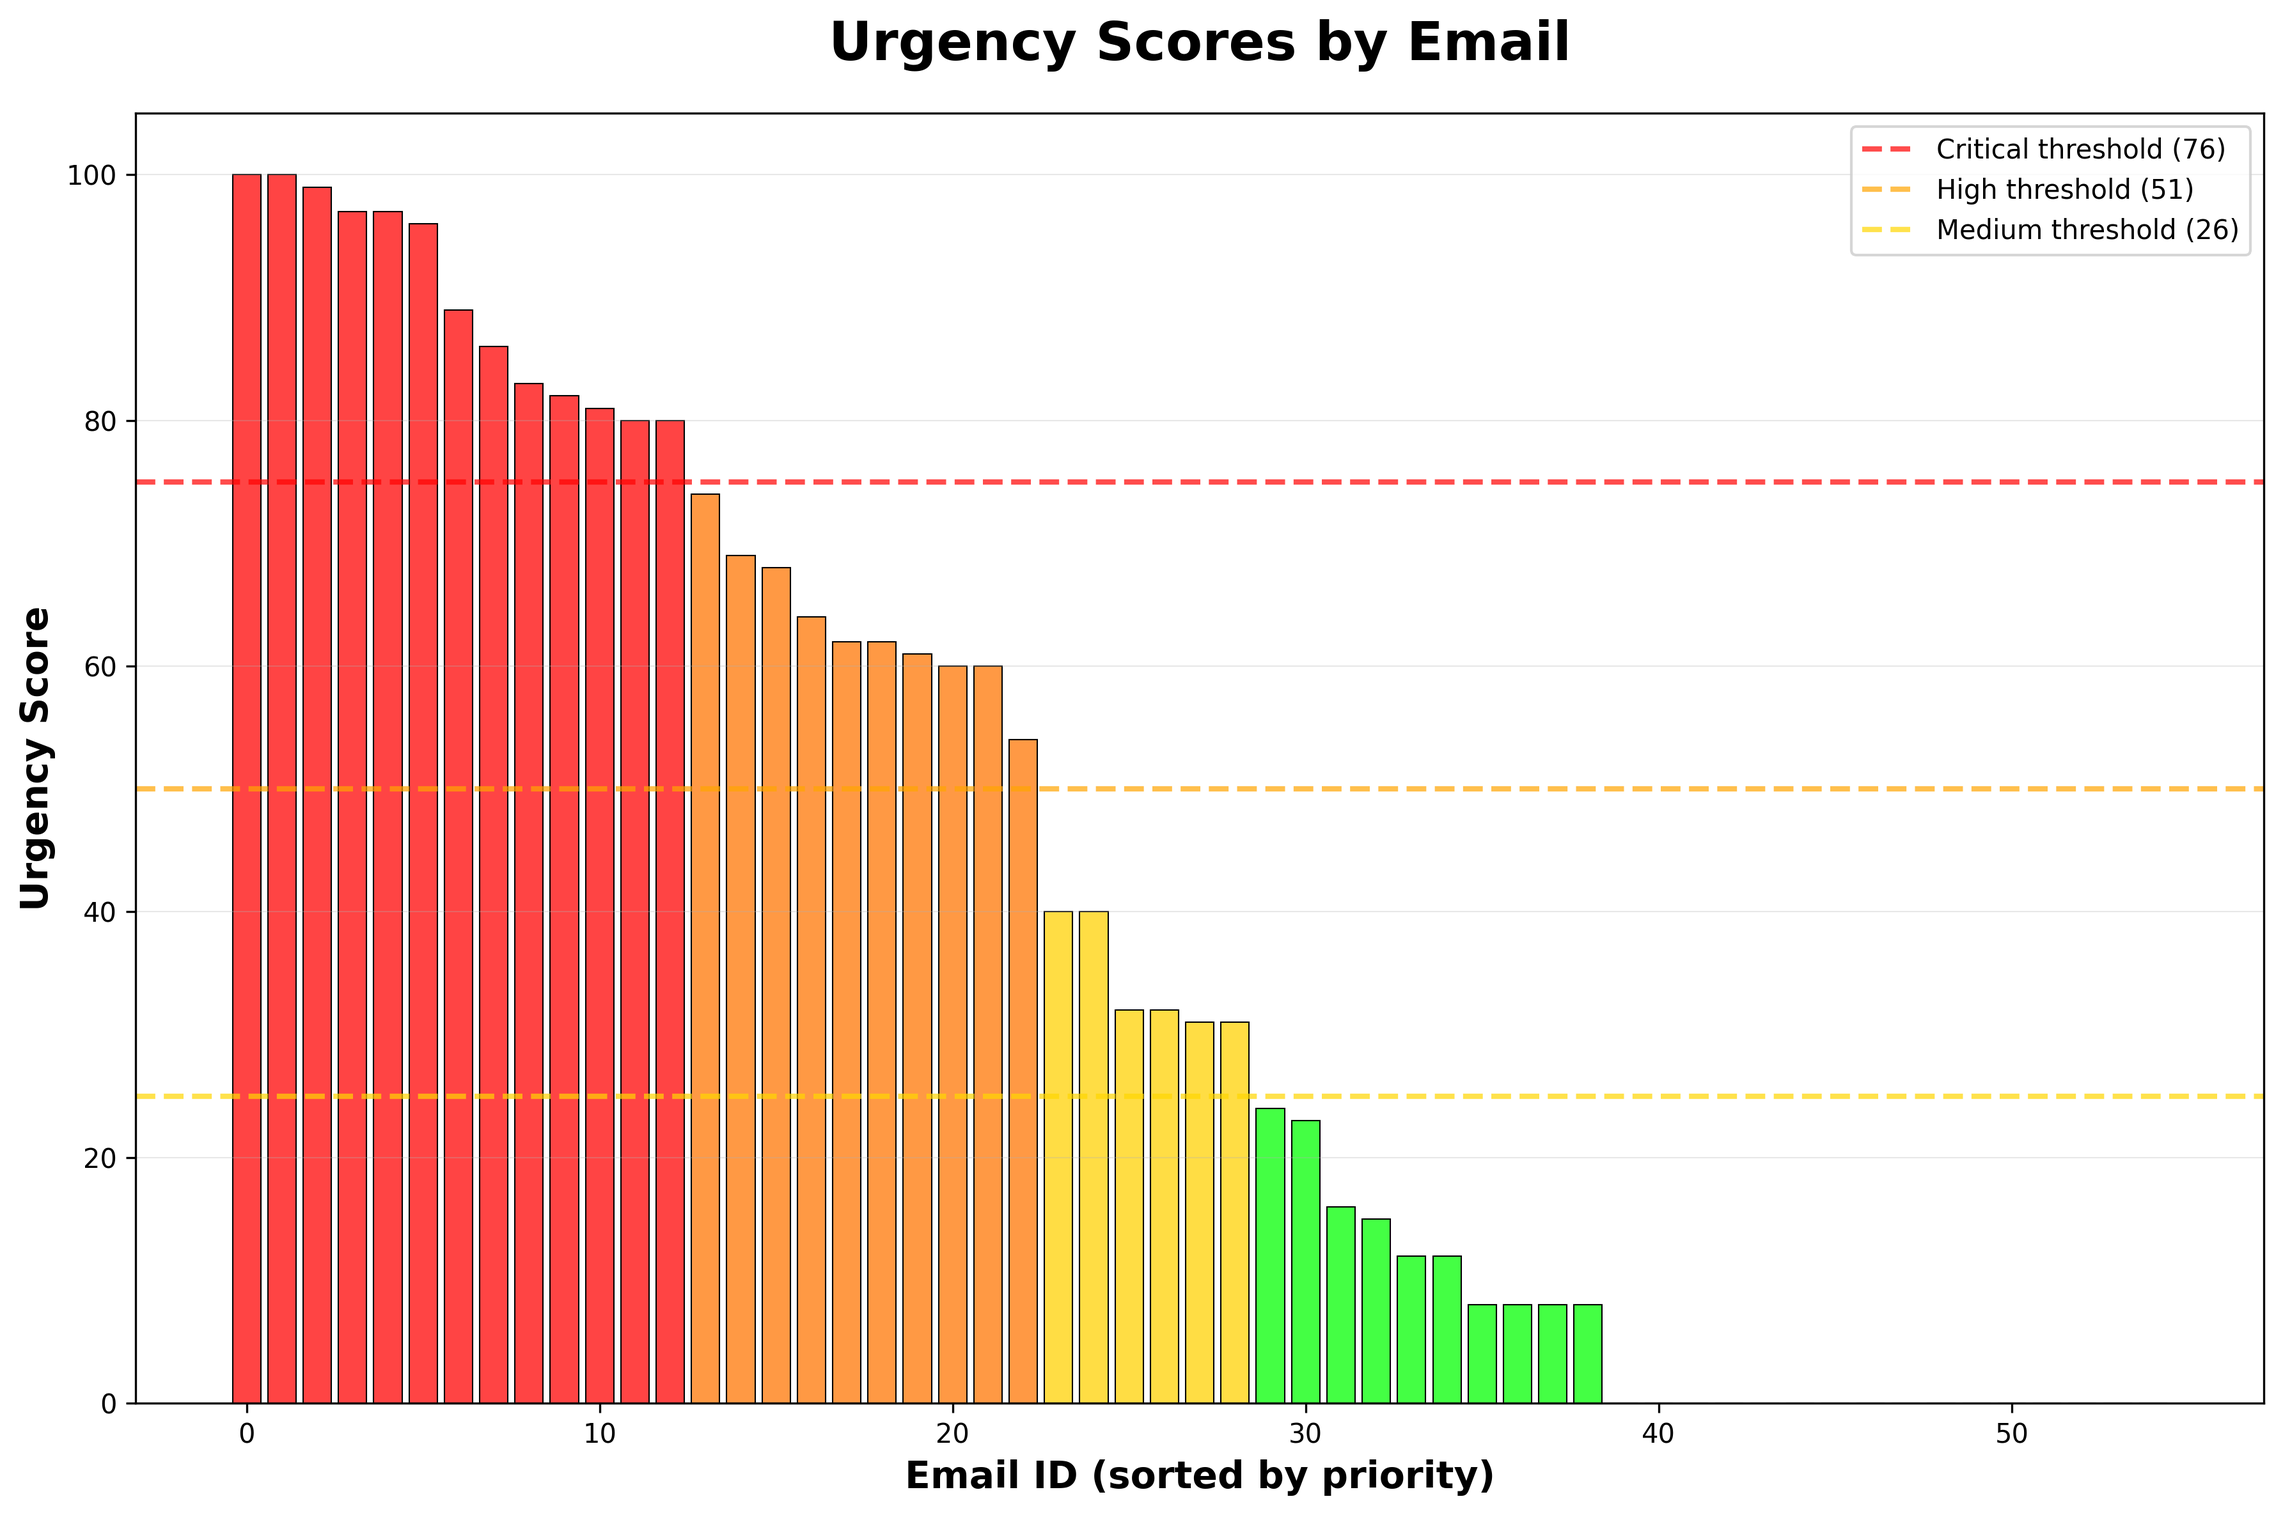
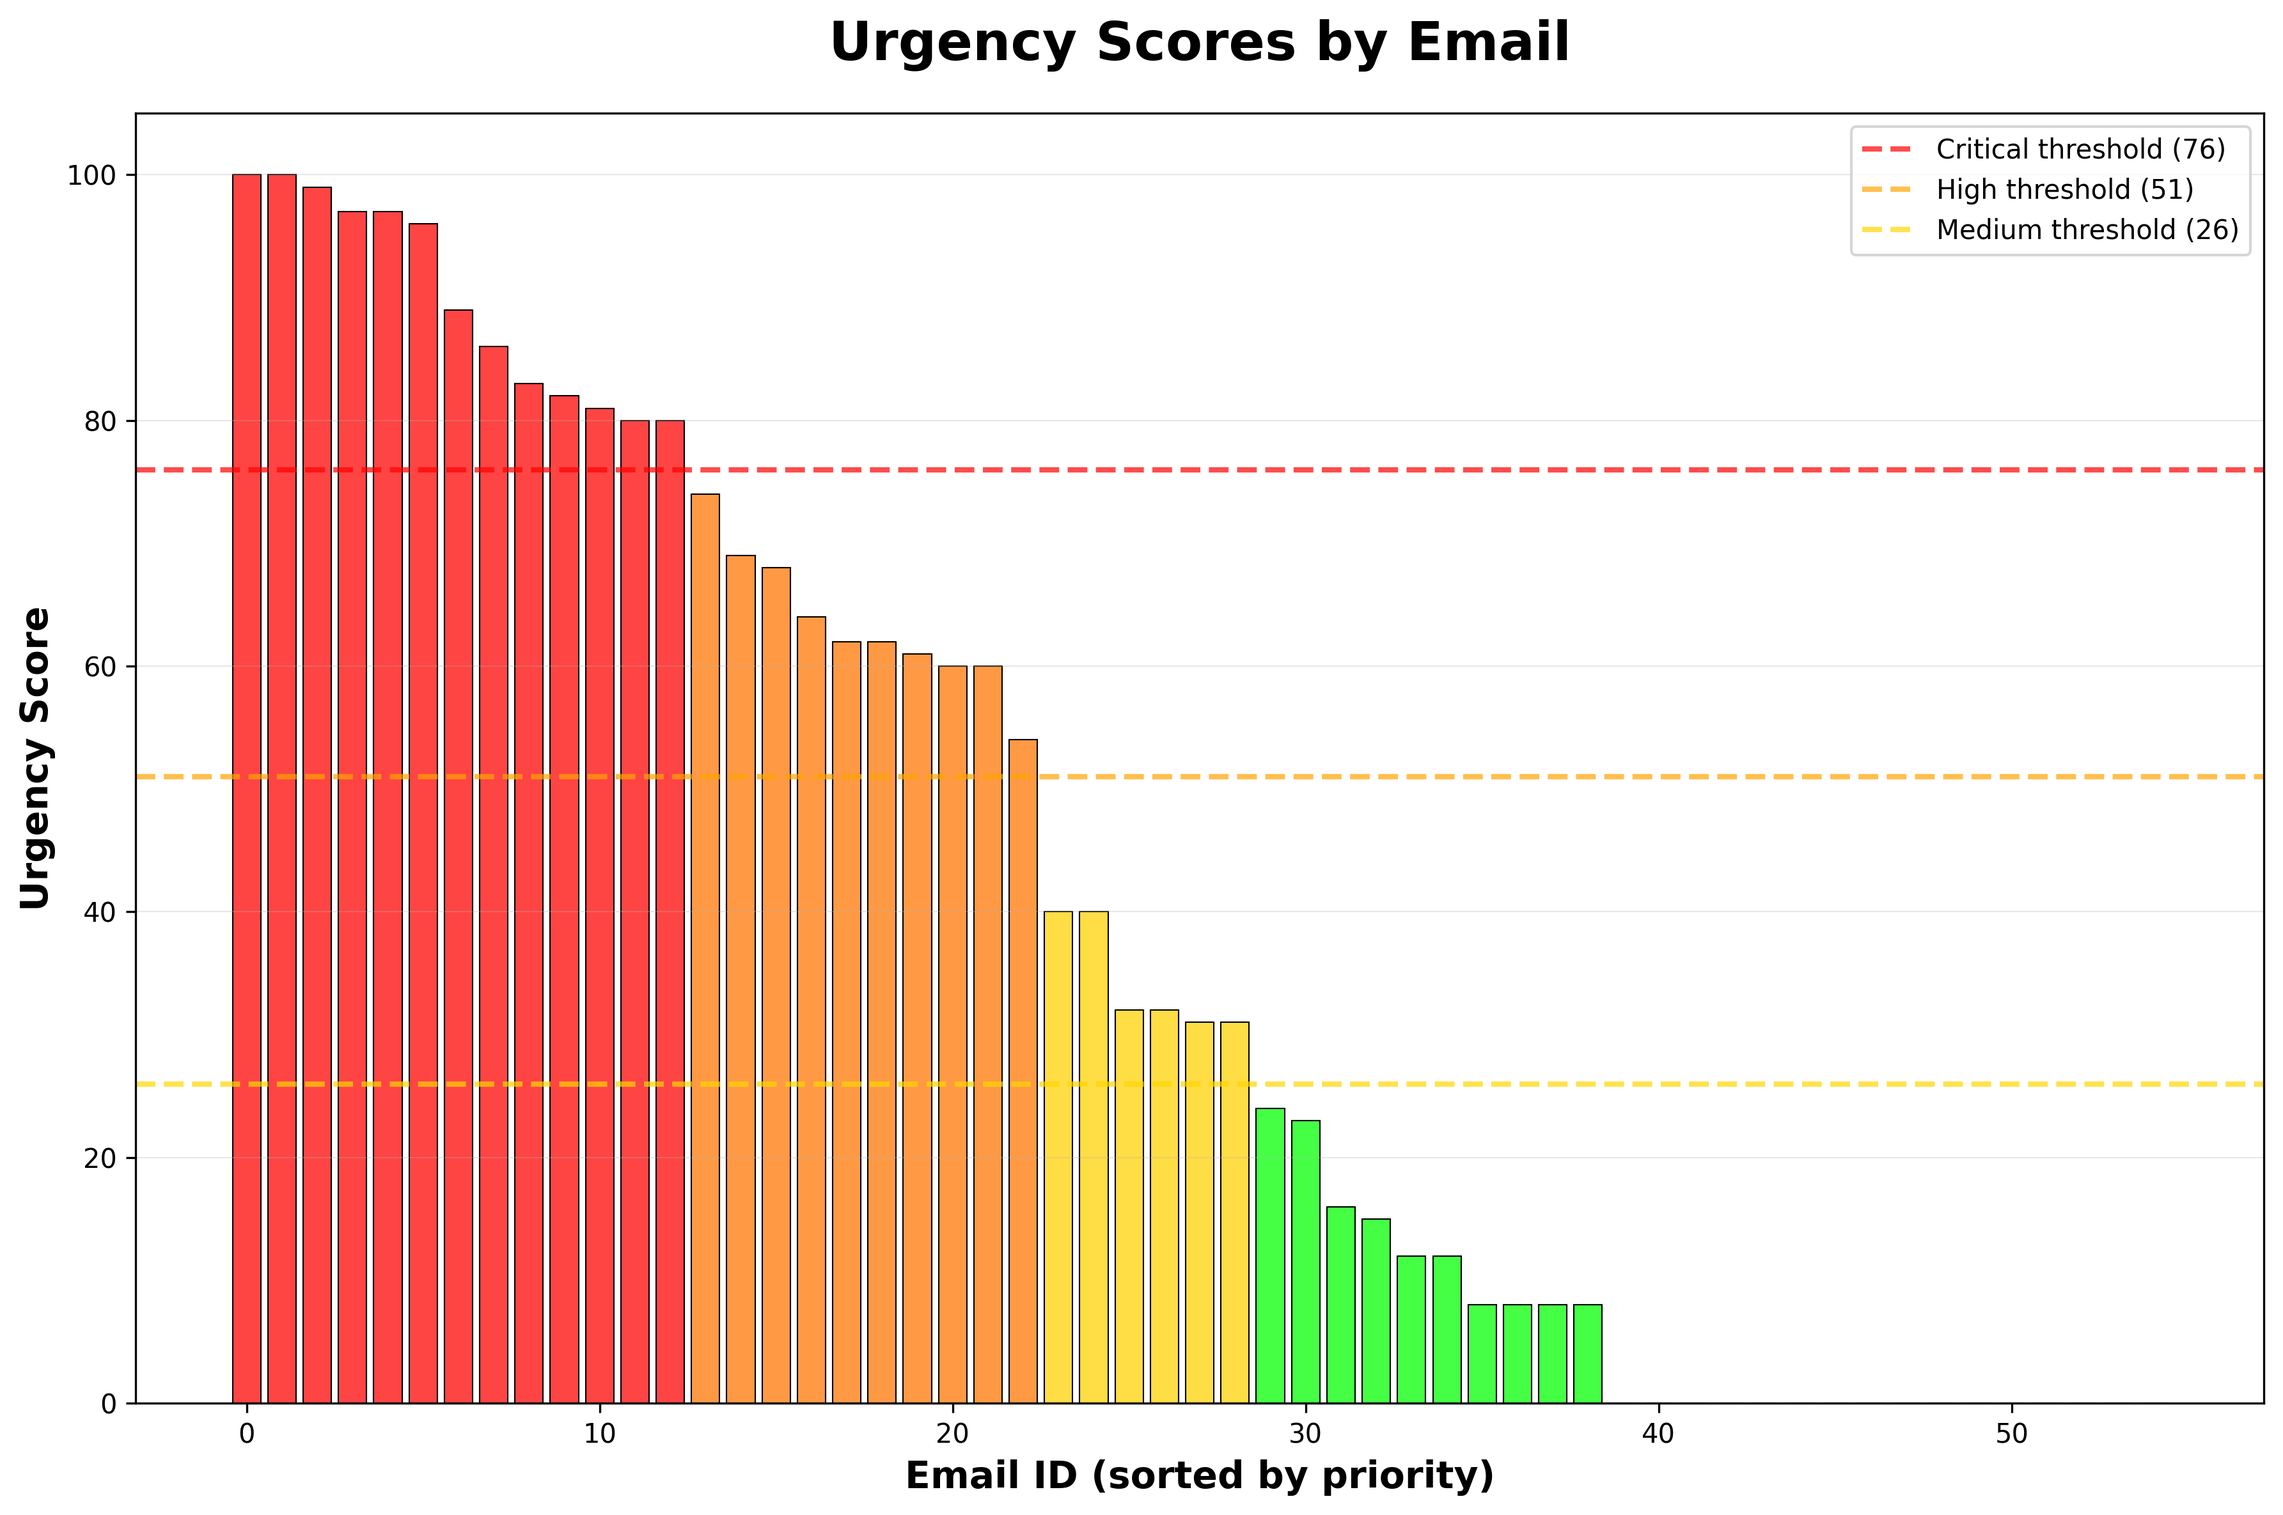
Fix code review issues - remove unused imports and fix threshold positions

diff --git a/results/urgency_dashboard.html b/results/urgency_dashboard.html
@@ -204,7 +204,7 @@
     <div class="container">
         <header>
             <h1>📊 Email Urgency Detection Dashboard</h1>
-            <p>Analysis completed on January 04, 2026 at 12:55 PM</p>
+            <p>Analysis completed on January 04, 2026 at 12:57 PM</p>
             <p>Total Emails Analyzed: <strong>55</strong></p>
         </header>
         
@@ -277,7 +277,7 @@
                             <td><span class="badge badge-critical">Critical</span></td>
                             <td>john.smith@company.com</td>
                             <td><strong>URGENT: Contract expires today - need signature ASAP</strong></td>
-                            <td>by 5pm, please respond, asap, immediately, respond...</td>
+                            <td>expire, critical, respond asap, please respond, as...</td>
                             <td>2024-01-15 09:30:00</td>
                         </tr>
 
@@ -287,7 +287,7 @@
                             <td><span class="badge badge-critical">Critical</span></td>
                             <td>kevin.hall@prospect.com</td>
                             <td><strong>URGENT NEED - Proposal required by noon</strong></td>
-                            <td>please respond, immediately, today, please, urgent...</td>
+                            <td>urgent, please respond, urgent need, by noon, imme...</td>
                             <td>2024-01-17 07:00:00</td>
                         </tr>
 
@@ -297,7 +297,7 @@
                             <td><span class="badge badge-critical">Critical</span></td>
                             <td>sarah.jones@client.com</td>
                             <td><strong>Emergency: System down call immediately</strong></td>
-                            <td>immediately, emergency, please, urgent, call me, n...</td>
+                            <td>urgent, emergency, please, immediately, call me, n...</td>
                             <td>2024-01-15 10:15:00</td>
                         </tr>
 
@@ -307,7 +307,7 @@
                             <td><span class="badge badge-critical">Critical</span></td>
                             <td>james.lopez@enterprise.com</td>
                             <td><strong>URGENT - Decision needed by end of day</strong></td>
-                            <td>soon, today, urgent, call me, need, end of day, ur...</td>
+                            <td>end of day, urgent, call me, soon, need, today, ne...</td>
                             <td>2024-01-16 08:00:00</td>
                         </tr>
 
@@ -317,7 +317,7 @@
                             <td><span class="badge badge-critical">Critical</span></td>
                             <td>jeremy.edwards@client.com</td>
                             <td><strong>Critical deadline - response needed this morning</strong></td>
-                            <td>this morning, response, critical, deadline, need, ...</td>
+                            <td>deadline, critical, end of day, this morning, resp...</td>
                             <td>2024-01-18 08:00:00</td>
                         </tr>
 
@@ -327,7 +327,7 @@
                             <td><span class="badge badge-critical">Critical</span></td>
                             <td>jeff.lopez@firm.com</td>
                             <td><strong>Please call me today about urgent matter</strong></td>
-                            <td>asap, today, please, urgent, call me, need, urgent...</td>
+                            <td>urgent, need, asap, please, call me, today, today ...</td>
                             <td>2024-01-17 09:00:00</td>
                         </tr>
 
@@ -337,7 +337,7 @@
                             <td><span class="badge badge-critical">Critical</span></td>
                             <td>austin.stewart@enterprise.com</td>
                             <td><strong>Time-sensitive legal review required immediately</strong></td>
-                            <td>required, immediately, today, time-sensitive, dead...</td>
+                            <td>deadline, required, time-sensitive, immediately, t...</td>
                             <td>2024-01-18 09:00:00</td>
                         </tr>
 
@@ -347,7 +347,7 @@
                             <td><span class="badge badge-critical">Critical</span></td>
                             <td>mike.wilson@prospect.com</td>
                             <td><strong>Need proposal by 5pm deadline - please respond</strong></td>
-                            <td>soon, today, deadline, time-sensitive, please, by ...</td>
+                            <td>deadline, time-sensitive, please, soon, today, dea...</td>
                             <td>2024-01-15 11:00:00</td>
                         </tr>
 
@@ -357,7 +357,7 @@
                             <td><span class="badge badge-critical">Critical</span></td>
                             <td>daniel.perez@firm.com</td>
                             <td><strong>URGENT: Server maintenance required now</strong></td>
-                            <td>urgent, critical, need, now, urgent (subject), now...</td>
+                            <td>need, critical, now, urgent, required (subject), n...</td>
                             <td>2024-01-16 13:00:00</td>
                         </tr>
 
@@ -367,7 +367,7 @@
                             <td><span class="badge badge-critical">Critical</span></td>
                             <td>patricia.gonzalez@startup.com</td>
                             <td><strong>Need response today - waiting for confirmation</strong></td>
-                            <td>waiting for, response, today, confirm, waiting, ne...</td>
+                            <td>waiting for, confirm, response, need, today, waiti...</td>
                             <td>2024-01-16 08:30:00</td>
                         </tr>
 
@@ -377,7 +377,7 @@
                             <td><span class="badge badge-critical">Critical</span></td>
                             <td>david.miller@startup.com</td>
                             <td><strong>ASAP: Client waiting for quote very urgent</strong></td>
-                            <td>asap, waiting for, today, waiting, need, urgent (s...</td>
+                            <td>waiting for, need, asap, today, waiting, asap (sub...</td>
                             <td>2024-01-15 13:45:00</td>
                         </tr>
 
@@ -387,7 +387,7 @@
                             <td><span class="badge badge-critical">Critical</span></td>
                             <td>karen.white@company.com</td>
                             <td><strong>Need to reschedule today's meeting ASAP</strong></td>
-                            <td>urgent, asap, need, today, asap (subject), need (s...</td>
+                            <td>today, asap, need, urgent, today (subject), asap (...</td>
                             <td>2024-01-16 13:30:00</td>
                         </tr>
 
@@ -397,7 +397,7 @@
                             <td><span class="badge badge-critical">Critical</span></td>
                             <td>nicholas.nelson@corporate.com</td>
                             <td><strong>IMMEDIATELY NEED APPROVAL - Contract signing today</strong></td>
-                            <td>critical, today, need, immediately, today (subject...</td>
+                            <td>today, need, immediately, critical, today (subject...</td>
                             <td>2024-01-17 12:00:00</td>
                         </tr>
 
@@ -407,7 +407,7 @@
                             <td><span class="badge badge-high">High</span></td>
                             <td>sara.carter@firm.com</td>
                             <td><strong>Emergency budget revision by 5 pm</strong></td>
-                            <td>need, emergency, by 5 pm, today, by 5 pm (subject)...</td>
+                            <td>emergency, need, by 5 pm, today, emergency (subjec...</td>
                             <td>2024-01-17 12:30:00</td>
                         </tr>
 
@@ -417,7 +417,7 @@
                             <td><span class="badge badge-high">High</span></td>
                             <td>jason.mitchell@company.com</td>
                             <td><strong>Urgent: Waiting for your response to proceed</strong></td>
-                            <td>urgent, response, waiting for, waiting, urgent (su...</td>
+                            <td>response, waiting for, waiting, urgent, response (...</td>
                             <td>2024-01-17 13:00:00</td>
                         </tr>
 
@@ -427,7 +427,7 @@
                             <td><span class="badge badge-high">High</span></td>
                             <td>carol.allen@enterprise.com</td>
                             <td><strong>Critical security update needed now</strong></td>
-                            <td>critical, need, emergency, now (subject), critical...</td>
+                            <td>emergency, need, critical, need (subject), critica...</td>
                             <td>2024-01-17 07:30:00</td>
                         </tr>
 
@@ -437,7 +437,7 @@
                             <td><span class="badge badge-high">High</span></td>
                             <td>amanda.wright@corporate.com</td>
                             <td><strong>Quickly need confirmation on delivery</strong></td>
-                            <td>confirm, quickly, need, waiting, confirm (subject)...</td>
+                            <td>confirm, need, waiting, quickly, confirm (subject)...</td>
                             <td>2024-01-17 08:30:00</td>
                         </tr>
 
@@ -447,7 +447,7 @@
                             <td><span class="badge badge-high">High</span></td>
                             <td>lisa.brown@enterprise.com</td>
                             <td><strong>Time-sensitive: Budget approval needed within 24 hours</strong></td>
-                            <td>time-sensitive, need, within 24 hours, time-sensit...</td>
+                            <td>need, time-sensitive, within 24 hours, need (subje...</td>
                             <td>2024-01-15 12:20:00</td>
                         </tr>
 
@@ -457,7 +457,7 @@
                             <td><span class="badge badge-high">High</span></td>
                             <td>linda.anderson@firm.com</td>
                             <td><strong>Critical: Meeting moved to this afternoon</strong></td>
-                            <td>critical, need, this afternoon, critical (subject)...</td>
+                            <td>need, critical, this afternoon, critical (subject)...</td>
                             <td>2024-01-16 09:30:00</td>
                         </tr>
 
@@ -467,7 +467,7 @@
                             <td><span class="badge badge-high">High</span></td>
                             <td>melissa.collins@prospect.com</td>
                             <td><strong>ASAP - Client ready to sign needs final pricing</strong></td>
-                            <td>now, asap, need, asap (subject), need (subject)</td>
+                            <td>asap, need, now, asap (subject), need (subject)</td>
                             <td>2024-01-18 08:30:00</td>
                         </tr>
                     </tbody>
@@ -494,8 +494,8 @@
                 <ul>
                     <li><strong>need</strong>: 24 occurrences</li>
 <li><strong>need (subject)</strong>: 18 occurrences</li>
-<li><strong>today</strong>: 11 occurrences</li>
 <li><strong>please</strong>: 11 occurrences</li>
+<li><strong>today</strong>: 11 occurrences</li>
 <li><strong>urgent (subject)</strong>: 7 occurrences</li>
                 </ul>
             </div>

diff --git a/src/chart_generator.py b/src/chart_generator.py
@@ -7,8 +7,6 @@ import os
 from typing import Dict
 import pandas as pd
 import matplotlib.pyplot as plt
-import matplotlib.dates as mdates
-from datetime import datetime
 from src.config import CHART_COLORS, CHART_DPI, CHART_WIDTH, CHART_HEIGHT, CHARTS_DIR
 
 
@@ -147,10 +145,10 @@ class ChartGenerator:
             linewidth=0.5
         )
         
-        # Add threshold lines
-        ax.axhline(y=75, color='red', linestyle='--', linewidth=2, alpha=0.7, label='Critical threshold (76)')
-        ax.axhline(y=50, color='orange', linestyle='--', linewidth=2, alpha=0.7, label='High threshold (51)')
-        ax.axhline(y=25, color='gold', linestyle='--', linewidth=2, alpha=0.7, label='Medium threshold (26)')
+        # Add threshold lines at actual threshold values
+        ax.axhline(y=76, color='red', linestyle='--', linewidth=2, alpha=0.7, label='Critical threshold (76)')
+        ax.axhline(y=51, color='orange', linestyle='--', linewidth=2, alpha=0.7, label='High threshold (51)')
+        ax.axhline(y=26, color='gold', linestyle='--', linewidth=2, alpha=0.7, label='Medium threshold (26)')
         
         # Customize chart
         ax.set_xlabel('Email ID (sorted by priority)', fontsize=14, weight='bold')

diff --git a/src/dashboard_generator.py b/src/dashboard_generator.py
@@ -5,6 +5,7 @@ Creates interactive HTML dashboard for email urgency visualization
 
 import os
 from typing import Dict
+from collections import Counter
 import pandas as pd
 from datetime import datetime
 from src.config import DASHBOARD_FILE, CHART_COLORS
@@ -79,7 +80,6 @@ class DashboardGenerator:
                 all_keywords.extend(keywords)
         
         if all_keywords:
-            from collections import Counter
             keyword_counts = Counter(all_keywords)
             stats['top_keywords'] = keyword_counts.most_common(5)
         else:
